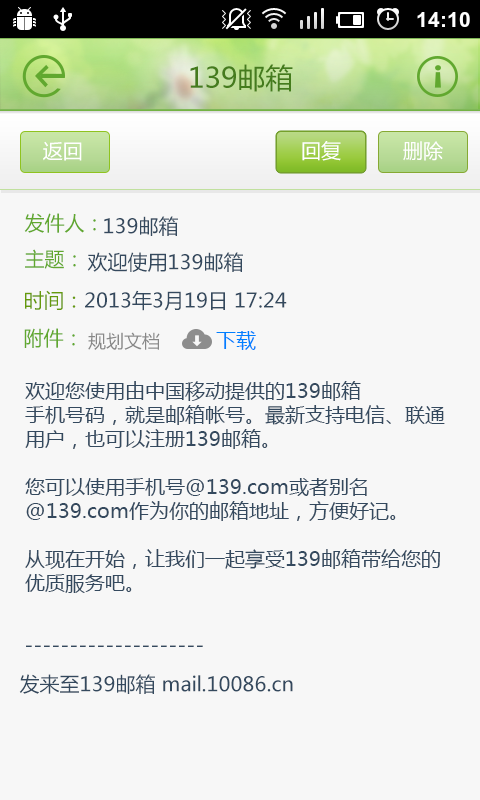
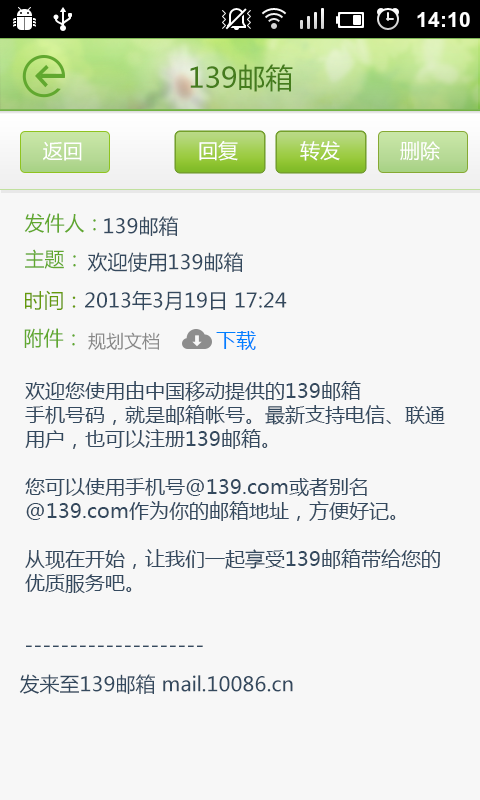
fix mobile

diff --git a/Home_files/data.js b/Home_files/data.js
@@ -1,7 +1,7 @@
 $axure.loadCurrentPage(
 (function() {
     var _ = function() { var r={},a=arguments; for(var i=0; i<a.length; i+=2) r[a[i]]=a[i+1]; return r; }
-    var _creator = function() { return _(b,_(c,d,e,d),f,g,h,i,j,k,l,[m],n,_(o,_(p,_(q,r,s,t,u,v,w,k,x,k,y,k,z,A,B,C,D,_(E,F,G,H),I,J,K,L,M,null),N,_(q,O,s,t,u,v,w,k,x,k,y,k,z,P,B,Q,D,_(E,F,G,R),I,J,K,L,M,null),S,_(q,T,D,_(E,F,G,U)),V,_(q,W,y,d),X,_(q,Y),Z,_(q,ba,s,t,u,v,w,k,x,k,y,k,z,A,B,C,D,_(E,F,G,R),I,J,K,L,M,null),bb,_(q,bc,s,t,u,v,w,k,x,k,y,k,z,A,B,C,D,_(E,F,G,H),I,J,K,L,M,null),bd,_(q,be,s,t,u,v,w,k,x,k,y,k,z,P,B,C,D,_(E,F,G,H),I,J,K,L,M,null),bf,_(q,bg,s,t,u,v,w,k,x,k,y,k,z,P,B,Q,D,_(E,F,G,H),I,J,K,L,M,null),bh,_(q,bi,s,t,u,v,w,k,x,k,y,k,z,A,B,C,D,_(E,F,G,H),I,J,K,L,M,null),bj,_(q,bk,s,t,u,v,w,k,x,k,y,k,z,A,B,C,D,_(E,F,G,H),I,J,K,L,M,null),bl,_(q,bm,s,t,u,v,w,k,x,k,y,k,z,P,B,Q,D,_(E,F,G,R),I,J,K,L,M,null),bn,_(q,bo,s,t,u,v,w,k,x,k,y,k,z,P,B,Q,D,_(E,F,G,R),I,J,K,L,M,null),bp,_(q,bq,s,t,u,v,w,k,x,k,y,k,z,A,B,C,D,_(E,F,G,R),I,J,K,L,M,null),br,_(q,bs,s,t,u,v,w,k,x,k,y,k,z,P,B,C,D,_(E,F,G,R),I,J,K,L,M,null),bt,_(q,bu,s,t,u,v,w,k,x,k,y,k,z,A,B,C,D,_(E,F,G,R),I,J,K,L,M,null),bv,_(q,bw,s,t,u,v,w,k,x,k,y,k,z,A,B,C,D,_(E,F,G,R),I,J,K,L,M,null),bx,_(q,by,s,t,u,v,w,k,x,k,y,k,z,A,B,C,D,_(E,F,G,R),I,J,K,L,M,null),bz,_(q,bA,s,t,u,v,w,k,x,k,y,k,z,A,B,C,D,_(E,F,G,R),I,J,K,L,M,null),bB,_(q,bC,s,t,u,v,w,k,x,k,y,k,z,A,B,C,D,_(E,F,G,R),I,J,K,L,M,null),bD,_(q,bE,s,t,u,v,w,k,x,k,y,k,z,P,B,Q,D,_(E,F,G,R),I,J,K,L,M,null),bF,_(q,bG,s,t,u,v,w,k,x,k,y,k,z,A,B,C,D,_(E,F,G,H),I,J,K,L,M,null),bH,_(q,bI,s,t,u,v,w,k,x,k,y,k,z,A,B,C,D,_(E,F,G,R),I,J,K,L,M,null),bJ,_(q,bK,s,t,u,v,w,k,x,k,y,k,z,A,B,C,D,_(E,F,G,R),I,J,K,L,M,null),bL,_(q,bM,s,t,u,v,w,k,x,k,y,k,z,A,B,C,D,_(E,F,G,R),I,J,K,L,M,null)),bN,_()),bO,_(bP,bQ,bR,bS,bT,bU,bV,_(),bW,_(bX,[_(q,bY,bZ,ca,bR,bx,cb,cc,cd,[_(q,ce,bZ,cf,bR,cg,bX,[]),_(q,ch,bZ,ci,bR,cg,bX,[_(q,cj,bZ,ck,bR,bx,cb,cc,cd,[_(q,cl,bZ,cm,bR,cg,bX,[]),_(q,cn,bZ,co,bR,cg,bX,[])])]),_(q,cp,bZ,cq,bR,cg,bX,[_(q,cr,bZ,cs,bR,bx,cb,cc,cd,[_(q,ct,bZ,cu,bR,cg,bX,[]),_(q,cv,bZ,cw,bR,cg,bX,[]),_(q,cx,bZ,cy,bR,cg,bX,[]),_(q,cz,bZ,cA,bR,cg,bX,[])]),_(q,cB,bZ,cC,bR,bx,cb,cc,cd,[_(q,cD,bZ,cE,bR,cg,bX,[])]),_(q,cF,bZ,cG,bR,bx,cb,cc,cd,[_(q,cH,bZ,cE,bR,cg,bX,[]),_(q,cI,bZ,cu,bR,cg,bX,[])]),_(q,cJ,bZ,cK,bR,bx,cb,cc,cd,[_(q,cL,bZ,cE,bR,cg,bX,[]),_(q,cM,bZ,cN,bR,cg,bX,[])])]),_(q,cO,bZ,cP,bR,cg,bX,[_(q,cQ,bZ,cR,bR,bx,cb,cc,cd,[_(q,cS,bZ,cE,bR,cg,bX,[]),_(q,cT,bZ,cU,bR,cg,bX,[_(q,cV,bZ,cy,bR,bx,cb,cc,cd,[_(q,cW,bZ,cX,bR,cg,bX,[]),_(q,cY,bZ,cZ,bR,cg,bX,[]),_(q,da,bZ,db,bR,cg,bX,[])])]),_(q,dc,bZ,dd,bR,cg,bX,[_(q,de,bZ,df,bR,bx,cb,cc,cd,[_(q,dg,bZ,dh,bR,cg,bX,[]),_(q,di,bZ,dj,bR,cg,bX,[]),_(q,dk,bZ,dl,bR,cg,bX,[]),_(q,dm,bZ,dn,bR,cg,bX,[]),_(q,dp,bZ,dq,bR,cg,bX,[]),_(q,dr,bZ,ds,bR,cg,bX,[]),_(q,dt,bZ,du,bR,cg,bX,[])]),_(q,dv,bZ,dw,bR,bx,cb,cc,cd,[_(q,dx,bZ,cE,bR,cg,bX,[]),_(q,dy,bZ,dz,bR,cg,bX,[])])])])])]),_(q,dA,bZ,dB,bR,bx,cb,cc,cd,[_(q,dC,bZ,cE,bR,cg,bX,[])])])),dD,_(),dE,[_(dF,[bY],dG,dH),_(dF,[cQ],dG,dI),_(dF,[de],dG,dJ),_(dF,[dv],dG,dK),_(dF,[cV],dG,dL),_(dF,[cr],dG,dM),_(dF,[cB],dG,dN),_(dF,[cF],dG,dO),_(dF,[cJ],dG,dP),_(dF,[cj],dG,dQ),_(dF,[dA],dG,dR)]);}; 
-var b="options",c="hideAddress",d=true,e="preventScroll",f="url",g="Home.html",h="generationDate",i=new Date(1370506980233.47),j="isCanvasEnabled",k=false,l="variables",m="OnLoadVariable",n="stylesheet",o="defaultStyles",p="imageBox",q="id",r="#1",s="fontName",t="Arial",u="fontSize",v=13,w="bold",x="italic",y="underline",z="horizontalAlignment",A="center",B="verticalAlignment",C="middle",D="foreGroundFill",E="fillType",F="solid",G="color",H=0xFF000000,I="baseStyle",J="#2",K="lineSpacing",L=0,M="stateStyles",N="richTextPanel",O="#3",P="left",Q="top",R=0xFF333333,S="hyperlink",T="#4",U=0xFF0000FF,V="hyperlinkMouseOver",W="#5",X="hyperlinkMouseDown",Y="#6",Z="buttonShape",ba="#7",bb="button",bc="#8",bd="textBox",be="#9",bf="textArea",bg="#A",bh="comboBox",bi="#B",bj="listBox",bk="#C",bl="checkbox",bm="#D",bn="radioButton",bo="#E",bp="flowShape",bq="#F",br="treeNodeObject",bs="#G",bt="imageMapRegion",bu="#H",bv="inlineFrame",bw="#I",bx="dynamicPanel",by="#J",bz="referenceDiagramObject",bA="#K",bB="table",bC="#L",bD="tableCell",bE="#M",bF="menuObject",bG="#N",bH="horizontalLine",bI="#O",bJ="verticalLine",bK="#P",bL="connector",bM="#Q",bN="customStyles",bO="page",bP="packageId",bQ="15e4a358-bb30-4002-a604-870c2c03b1b2",bR="type",bS="Axure:Page",bT="name",bU="Home",bV="notes",bW="diagram",bX="objects",bY="#R",bZ="label",ca="",cb="scrollbars",cc="none",cd="diagrams",ce="#S",cf="拨号",cg="Axure:PanelDiagram",ch="#T",ci="通讯录",cj="#U",ck="通讯录子面板",cl="#V",cm="通讯列表",cn="#W",co="联系人详情",cp="#X",cq="短信",cr="#Y",cs="信息中心",ct="#Z",cu="手机短信",cv="#a",cw="139邮箱",cx="#b",cy="飞信",cz="#c",cA="系统",cB="#d",cC="筛选按钮",cD="#e",cE="State1",cF="#f",cG="消息中心筛选",cH="#g",cI="#h",cJ="#i",cK="短信对话",cL="#j",cM="#k",cN="短信对话框",cO="#l",cP="个人装备",cQ="#m",cR="个人装备-飞信",cS="#n",cT="#o",cU="个人装备-飞信列表",cV="#p",cW="#q",cX="飞信全部列表",cY="#r",cZ="最近联系",da="#s",db="关于飞信",dc="#t",dd="个人装备-139邮箱",de="#u",df="139邮箱动态面板",dg="#v",dh="收件列表",di="#w",dj="新邮件",dk="#x",dl="收件箱",dm="#y",dn="邮件详情",dp="#z",dq="设置",dr="#10",ds="搜索",dt="#11",du="关于",dv="#12",dw="139关于",dx="#13",dy="#14",dz="State2",dA="#15",dB="menu",dC="#16",dD="masters",dE="objectPathToScriptId",dF="idPath",dG="scriptId",dH="u0",dI="u4",dJ="u5",dK="u33",dL="u37",dM="u52",dN="u62",dO="u66",dP="u73",dQ="u77",dR="u86";
+    var _creator = function() { return _(b,_(c,d),e,f,g,h,i,j,k,[l],m,_(n,_(o,_(p,q,r,s,t,u,v,j,w,j,x,j,y,z,A,B,C,_(D,E,F,G),H,I,J,K,L,null),M,_(p,N,r,s,t,u,v,j,w,j,x,j,y,O,A,P,C,_(D,E,F,Q),H,I,J,K,L,null),R,_(p,S,C,_(D,E,F,T)),U,_(p,V,x,d),W,_(p,X),Y,_(p,Z,r,s,t,u,v,j,w,j,x,j,y,z,A,B,C,_(D,E,F,Q),H,I,J,K,L,null),ba,_(p,bb,r,s,t,u,v,j,w,j,x,j,y,z,A,B,C,_(D,E,F,G),H,I,J,K,L,null),bc,_(p,bd,r,s,t,u,v,j,w,j,x,j,y,O,A,B,C,_(D,E,F,G),H,I,J,K,L,null),be,_(p,bf,r,s,t,u,v,j,w,j,x,j,y,O,A,P,C,_(D,E,F,G),H,I,J,K,L,null),bg,_(p,bh,r,s,t,u,v,j,w,j,x,j,y,z,A,B,C,_(D,E,F,G),H,I,J,K,L,null),bi,_(p,bj,r,s,t,u,v,j,w,j,x,j,y,z,A,B,C,_(D,E,F,G),H,I,J,K,L,null),bk,_(p,bl,r,s,t,u,v,j,w,j,x,j,y,O,A,P,C,_(D,E,F,Q),H,I,J,K,L,null),bm,_(p,bn,r,s,t,u,v,j,w,j,x,j,y,O,A,P,C,_(D,E,F,Q),H,I,J,K,L,null),bo,_(p,bp,r,s,t,u,v,j,w,j,x,j,y,z,A,B,C,_(D,E,F,Q),H,I,J,K,L,null),bq,_(p,br,r,s,t,u,v,j,w,j,x,j,y,O,A,B,C,_(D,E,F,Q),H,I,J,K,L,null),bs,_(p,bt,r,s,t,u,v,j,w,j,x,j,y,z,A,B,C,_(D,E,F,Q),H,I,J,K,L,null),bu,_(p,bv,r,s,t,u,v,j,w,j,x,j,y,z,A,B,C,_(D,E,F,Q),H,I,J,K,L,null),bw,_(p,bx,r,s,t,u,v,j,w,j,x,j,y,z,A,B,C,_(D,E,F,Q),H,I,J,K,L,null),by,_(p,bz,r,s,t,u,v,j,w,j,x,j,y,z,A,B,C,_(D,E,F,Q),H,I,J,K,L,null),bA,_(p,bB,r,s,t,u,v,j,w,j,x,j,y,z,A,B,C,_(D,E,F,Q),H,I,J,K,L,null),bC,_(p,bD,r,s,t,u,v,j,w,j,x,j,y,O,A,P,C,_(D,E,F,Q),H,I,J,K,L,null),bE,_(p,bF,r,s,t,u,v,j,w,j,x,j,y,z,A,B,C,_(D,E,F,G),H,I,J,K,L,null),bG,_(p,bH,r,s,t,u,v,j,w,j,x,j,y,z,A,B,C,_(D,E,F,Q),H,I,J,K,L,null),bI,_(p,bJ,r,s,t,u,v,j,w,j,x,j,y,z,A,B,C,_(D,E,F,Q),H,I,J,K,L,null),bK,_(p,bL,r,s,t,u,v,j,w,j,x,j,y,z,A,B,C,_(D,E,F,Q),H,I,J,K,L,null)),bM,_()),bN,_(bO,bP,bQ,bR,bS,bT,bU,_(),bV,_(bW,[_(p,bX,bY,bZ,bQ,bw,ca,cb,cc,[_(p,cd,bY,ce,bQ,cf,bW,[]),_(p,cg,bY,ch,bQ,cf,bW,[_(p,ci,bY,cj,bQ,bw,ca,cb,cc,[_(p,ck,bY,cl,bQ,cf,bW,[]),_(p,cm,bY,cn,bQ,cf,bW,[])])]),_(p,co,bY,cp,bQ,cf,bW,[_(p,cq,bY,cr,bQ,bw,ca,cb,cc,[_(p,cs,bY,ct,bQ,cf,bW,[]),_(p,cu,bY,cv,bQ,cf,bW,[]),_(p,cw,bY,cx,bQ,cf,bW,[]),_(p,cy,bY,cz,bQ,cf,bW,[])]),_(p,cA,bY,cB,bQ,bw,ca,cb,cc,[_(p,cC,bY,cD,bQ,cf,bW,[])]),_(p,cE,bY,cF,bQ,bw,ca,cb,cc,[_(p,cG,bY,cD,bQ,cf,bW,[]),_(p,cH,bY,ct,bQ,cf,bW,[])]),_(p,cI,bY,cJ,bQ,bw,ca,cb,cc,[_(p,cK,bY,cD,bQ,cf,bW,[]),_(p,cL,bY,cM,bQ,cf,bW,[])])]),_(p,cN,bY,cO,bQ,cf,bW,[_(p,cP,bY,cQ,bQ,bw,ca,cb,cc,[_(p,cR,bY,cD,bQ,cf,bW,[]),_(p,cS,bY,cT,bQ,cf,bW,[_(p,cU,bY,cx,bQ,bw,ca,cb,cc,[_(p,cV,bY,cW,bQ,cf,bW,[]),_(p,cX,bY,cY,bQ,cf,bW,[]),_(p,cZ,bY,da,bQ,cf,bW,[])])]),_(p,db,bY,dc,bQ,cf,bW,[_(p,dd,bY,de,bQ,bw,ca,cb,cc,[_(p,df,bY,dg,bQ,cf,bW,[]),_(p,dh,bY,di,bQ,cf,bW,[]),_(p,dj,bY,dk,bQ,cf,bW,[]),_(p,dl,bY,dm,bQ,cf,bW,[]),_(p,dn,bY,dp,bQ,cf,bW,[]),_(p,dq,bY,dr,bQ,cf,bW,[]),_(p,ds,bY,dt,bQ,cf,bW,[])]),_(p,du,bY,dv,bQ,bw,ca,cb,cc,[_(p,dw,bY,cD,bQ,cf,bW,[]),_(p,dx,bY,dy,bQ,cf,bW,[])])])])])]),_(p,dz,bY,dA,bQ,bw,ca,cb,cc,[_(p,dB,bY,cD,bQ,cf,bW,[])])])),dC,_(),dD,[_(dE,[bX],dF,dG),_(dE,[cP],dF,dH),_(dE,[dd],dF,dI),_(dE,[du],dF,dJ),_(dE,[cU],dF,dK),_(dE,[cq],dF,dL),_(dE,[cA],dF,dM),_(dE,[cE],dF,dN),_(dE,[cI],dF,dO),_(dE,[ci],dF,dP),_(dE,[dz],dF,dQ)]);}; 
+var b="options",c="hideAddress",d=true,e="url",f="Home.html",g="generationDate",h=new Date(1370508448567.4),i="isCanvasEnabled",j=false,k="variables",l="OnLoadVariable",m="stylesheet",n="defaultStyles",o="imageBox",p="id",q="#1",r="fontName",s="Arial",t="fontSize",u=13,v="bold",w="italic",x="underline",y="horizontalAlignment",z="center",A="verticalAlignment",B="middle",C="foreGroundFill",D="fillType",E="solid",F="color",G=0xFF000000,H="baseStyle",I="#2",J="lineSpacing",K=0,L="stateStyles",M="richTextPanel",N="#3",O="left",P="top",Q=0xFF333333,R="hyperlink",S="#4",T=0xFF0000FF,U="hyperlinkMouseOver",V="#5",W="hyperlinkMouseDown",X="#6",Y="buttonShape",Z="#7",ba="button",bb="#8",bc="textBox",bd="#9",be="textArea",bf="#A",bg="comboBox",bh="#B",bi="listBox",bj="#C",bk="checkbox",bl="#D",bm="radioButton",bn="#E",bo="flowShape",bp="#F",bq="treeNodeObject",br="#G",bs="imageMapRegion",bt="#H",bu="inlineFrame",bv="#I",bw="dynamicPanel",bx="#J",by="referenceDiagramObject",bz="#K",bA="table",bB="#L",bC="tableCell",bD="#M",bE="menuObject",bF="#N",bG="horizontalLine",bH="#O",bI="verticalLine",bJ="#P",bK="connector",bL="#Q",bM="customStyles",bN="page",bO="packageId",bP="15e4a358-bb30-4002-a604-870c2c03b1b2",bQ="type",bR="Axure:Page",bS="name",bT="Home",bU="notes",bV="diagram",bW="objects",bX="#R",bY="label",bZ="",ca="scrollbars",cb="none",cc="diagrams",cd="#S",ce="拨号",cf="Axure:PanelDiagram",cg="#T",ch="通讯录",ci="#U",cj="通讯录子面板",ck="#V",cl="通讯列表",cm="#W",cn="联系人详情",co="#X",cp="短信",cq="#Y",cr="信息中心",cs="#Z",ct="手机短信",cu="#a",cv="139邮箱",cw="#b",cx="飞信",cy="#c",cz="系统",cA="#d",cB="筛选按钮",cC="#e",cD="State1",cE="#f",cF="消息中心筛选",cG="#g",cH="#h",cI="#i",cJ="短信对话",cK="#j",cL="#k",cM="短信对话框",cN="#l",cO="个人装备",cP="#m",cQ="个人装备-飞信",cR="#n",cS="#o",cT="个人装备-飞信列表",cU="#p",cV="#q",cW="飞信全部列表",cX="#r",cY="最近联系",cZ="#s",da="关于飞信",db="#t",dc="个人装备-139邮箱",dd="#u",de="139邮箱动态面板",df="#v",dg="收件列表",dh="#w",di="新邮件",dj="#x",dk="收件箱",dl="#y",dm="邮件详情",dn="#z",dp="设置",dq="#10",dr="搜索",ds="#11",dt="关于",du="#12",dv="139关于",dw="#13",dx="#14",dy="State2",dz="#15",dA="menu",dB="#16",dC="masters",dD="objectPathToScriptId",dE="idPath",dF="scriptId",dG="u0",dH="u4",dI="u5",dJ="u33",dK="u37",dL="u52",dM="u62",dN="u66",dO="u73",dP="u77",dQ="u86";
 return _creator();
 })());

diff --git a/Home.html b/Home.html
@@ -3,7 +3,7 @@
     <title>Home</title>
     <meta http-equiv="content-type" content="text/html; charset=utf-8"/>
     <meta http-equiv="imagetoolbar" content="no"/>
-    <meta name="viewport" content="width=device-width, initial-scale=1.0, maximum-scale=1.0, user-scalable=no"/>
+    <meta name="viewport" content="width=device-width, user-scalable=no"/>
     <meta name="apple-mobile-web-app-capable" content="yes"/>
     <link rel="apple-touch-icon" href="data/apple-touch-icon.png" />
     <link href="resources/css/jquery-ui-themes.css" type="text/css" rel="stylesheet">

diff --git a/Home_files/axurerp_pagespecificstyles.css b/Home_files/axurerp_pagespecificstyles.css
@@ -327,7 +327,7 @@ div {
 
 #u17 {
     position:absolute;
-    left:271px;
+    left:169px;
     top:128px;
     width:100px;
     height:50px;
